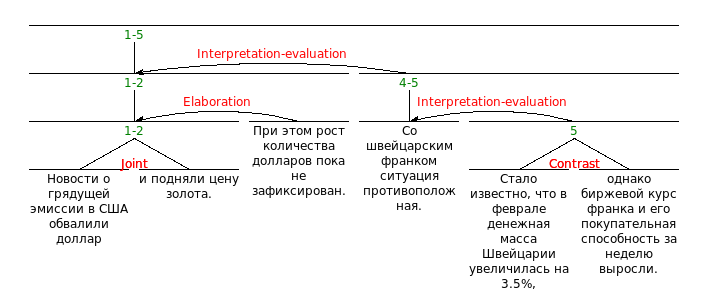
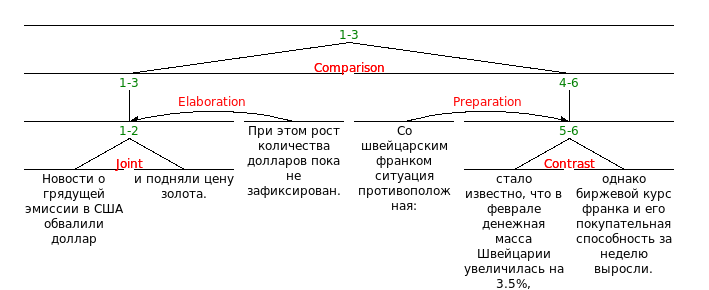
update for the latest version

diff --git a/README.md b/README.md
@@ -1,4 +1,4 @@
-![Python 3.6](https://img.shields.io/badge/python-3.7-green.svg)
+![Python 3.7](https://img.shields.io/badge/python-3.7-green.svg)
 
 # IsaNLP RST Parser
 This Python 3 library provides RST parser for Russian based on neural network models trained on [RuRSTreebank](https://rstreebank.ru/) Russian discourse corpus. The parser should be used in conjunction with [IsaNLP library](https://github.com/IINemo/isanlp) and can be considered its module.  
@@ -46,7 +46,7 @@ ppl = PipelineCommon([
 
 text = (
 "Новости о грядущей эмиссии в США обвалили доллар и подняли цену золота. При этом рост количества "
-"долларов пока не зафиксирован. Со швейцарским франком ситуация противоположная. Стало известно, ч"
+"долларов пока не зафиксирован. Со швейцарским франком ситуация противоположная: стало известно, ч"
 "то в феврале денежная масса Швейцарии увеличилась на 3.5%, однако биржевой курс франка и его покуп"
 "ательная способность за неделю выросли."
 )
